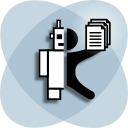
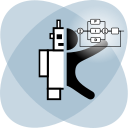
added the PID controllers as USTRUCT

Changed region(s): [[0.4688, 0.125, 0.9688, 0.8125], [0.25, 0.4062, 0.4688, 0.8125], [0.3438, 0.1562, 0.4375, 0.4062]]

diff --git a/Source/UPIDController/Public/PIDController.h b/Source/UPIDController/Public/PIDController.h
@@ -3,12 +3,182 @@
 
 #pragma once
 
+#include "EngineMinimal.h"
+#include "PIDController.generated.h"
+
 /**
-PID Controller
-Error: where you are vs where you want to be 
-Derivative: how fast you are approaching, dampening
-Integral: alignment error
- */
+* PID Controller
+* Error: where you are vs where you want to be
+* Derivative: how fast you are approaching, dampening
+* Integral: alignment error
+*/
+USTRUCT(BlueprintType)
+struct UPIDCONTROLLER_API FPIDController 
+{
+	GENERATED_USTRUCT_BODY()
+
+public:
+	// Proportional gain
+	UPROPERTY(EditAnywhere)
+	float P;
+
+	// Integral gain
+	UPROPERTY(EditAnywhere)
+	float I;
+
+	// Derivative gain
+	UPROPERTY(EditAnywhere)
+	float D;
+
+	// Max output (as absolute value)
+	UPROPERTY(EditAnywhere)
+	float MaxOutAbs;
+
+	// Default constructor (no initialization)
+	FPIDController() { }
+
+	// Constructor with initial value for each component
+	FPIDController(float InP, float InI, float InD, float InMaxOutAbs);
+
+	// Update the PID loop
+	float Update(const float InError, const float InDeltaTime);
+
+	// Update as a PID controller
+	float UpdateAsPID(const float InError, const float InDeltaTime);
+
+	// Update as a P controller
+	float UpdateAsP(const float InError);
+
+	// Update as a PD controller
+	float UpdateAsPD(const float InError, const float InDeltaTime);
+
+	// Update as a PI controller
+	float UpdateAsPI(const float InError, const float InDeltaTime);
+
+	// Reset error values of the PID
+	void Reset();
+	
+private:
+	// Previous step error value
+	float PrevErr;
+
+	// Integral error
+	float IErr;
+};
+
+/* FPIDController inline functions
+*****************************************************************************/
+FORCEINLINE FPIDController::FPIDController(float InP, float InI, float InD, float InMaxOutAbs)
+	: P(InP), I(InI), D(InD), MaxOutAbs(InMaxOutAbs)
+{ 
+	FPIDController::Reset();
+}
+
+FORCEINLINE float FPIDController::Update(const float InError, const float InDeltaTime)
+{
+	if (InDeltaTime == 0.0f || FMath::IsNaN(InError))
+	{
+		return 0.0f;
+	}
+
+	// Calculate proportional output
+	const float POut = P * InError;
+
+	// Calculate integral error / output
+	IErr += InDeltaTime * InError;
+	const float IOut = I * IErr;
+
+	// Calculate the derivative error / output
+	const float DErr = (InError - PrevErr) / InDeltaTime;
+	const float DOut = D * DErr;
+
+	// Set previous error
+	PrevErr = InError;
+
+	// Calculate the output
+	const float Out = POut + IOut + DOut;
+	
+	// Clamp output
+	return FMath::Clamp(Out, -MaxOutAbs, MaxOutAbs);
+}
+
+FORCEINLINE float FPIDController::UpdateAsPID(const float InError, const float InDeltaTime)
+{
+	return FPIDController::Update(InError, InDeltaTime);
+}
+
+FORCEINLINE float FPIDController::UpdateAsP(const float InError)
+{
+	if (FMath::IsNaN(InError))
+	{
+		return 0.0f;
+	}
+
+	// Calculate proportional output
+	const float Out = P * InError;
+
+	// Clamp output
+	return FMath::Clamp(Out, -MaxOutAbs, MaxOutAbs);
+}
+
+FORCEINLINE float FPIDController::UpdateAsPD(const float InError, const float InDeltaTime)
+{
+	if (InDeltaTime == 0.0f || FMath::IsNaN(InError))
+	{
+		return 0.0f;
+	}
+
+	// Calculate proportional output
+	const float POut = P * InError;
+
+	// Calculate the derivative error / output
+	const float DErr = (InError - PrevErr) / InDeltaTime;
+	const float DOut = D * DErr;
+
+	// Set previous error
+	PrevErr = InError;
+
+	// Calculate the output
+	const float Out = POut + DOut;
+
+	// Clamp output
+	return FMath::Clamp(Out, -MaxOutAbs, MaxOutAbs);
+}
+
+FORCEINLINE float FPIDController::UpdateAsPI(const float InError, const float InDeltaTime)
+{
+	if (InDeltaTime == 0.0f || FMath::IsNaN(InError))
+	{
+		return 0.0f;
+	}
+
+	// Calculate proportional output
+	const float POut = P * InError;
+
+	// Calculate integral error / output
+	IErr += InDeltaTime * InError;
+	const float IOut = I * IErr;
+
+	// Calculate the output
+	const float Out = POut + IOut;
+
+	// Clamp output
+	return FMath::Clamp(Out, -MaxOutAbs, MaxOutAbs);
+}
+
+FORCEINLINE void FPIDController::Reset()
+{
+	PrevErr = 0.f;
+	IErr = 0.f;
+}
+
+/* DEPRECATED, moved as USTRUCT */
+/**
+* PID Controller
+* Error: where you are vs where you want to be
+* Derivative: how fast you are approaching, dampening
+* Integral: alignment error
+*/
 class UPIDCONTROLLER_API PIDController
 {
 public:

diff --git a/Source/UPIDController/Public/PIDController3D.h b/Source/UPIDController/Public/PIDController3D.h
@@ -3,6 +3,178 @@
 
 #pragma once
 
+#include "EngineMinimal.h"
+#include "PIDController3D.generated.h"
+
+
+/**
+* PID Controller for FVector
+* Error: where you are vs where you want to be
+* Derivative: how fast you are approaching, dampening
+* Integral: alignment error
+*/
+USTRUCT(BlueprintType)
+struct UPIDCONTROLLER_API FPIDController3D
+{
+	GENERATED_USTRUCT_BODY()
+
+public:
+	// Proportional gain
+	UPROPERTY(EditAnywhere)
+	float P;
+
+	// Integral gain
+	UPROPERTY(EditAnywhere)
+	float I;
+
+	// Derivative gain
+	UPROPERTY(EditAnywhere)
+	float D;
+
+	// Max output (as absolute value)
+	UPROPERTY(EditAnywhere)
+	float MaxOutAbs;
+
+	// Default constructor (no initialization)
+	FPIDController3D() { }
+
+	// Constructor with initial value for each component
+	FPIDController3D(float InP, float InI, float InD, float InMaxOutAbs);
+
+	// Update the PID loop
+	FVector Update(const FVector InError, const float InDeltaTime);
+
+	// Update as a PID controller
+	FVector UpdateAsPID(const FVector InError, const float InDeltaTime);
+
+	// Update as a P controller
+	FVector UpdateAsP(const FVector InError);
+
+	// Update as a PD controller
+	FVector UpdateAsPD(const FVector InError, const float InDeltaTime);
+
+	// Update as a PI controller
+	FVector UpdateAsPI(const FVector InError, const float InDeltaTime);
+
+	// Reset error values of the PID
+	void Reset();
+
+private:
+	// Previous step error value
+	FVector PrevErr;
+
+	// Integral error
+	FVector IErr;
+};
+
+/* FPIDController inline functions
+*****************************************************************************/
+FORCEINLINE FPIDController3D::FPIDController3D(float InP, float InI, float InD, float InMaxOutAbs)
+	: P(InP), I(InI), D(InD), MaxOutAbs(InMaxOutAbs)
+{
+	FPIDController3D::Reset();
+}
+
+FORCEINLINE FVector FPIDController3D::Update(const FVector InError, const float InDeltaTime)
+{
+	if (InDeltaTime == 0.0f || InError.ContainsNaN())
+	{
+		return FVector(0.0f);
+	}
+
+	// Calculate proportional output
+	const FVector POut = P * InError;
+
+	// Calculate integral error / output
+	IErr += InDeltaTime * InError;
+	const FVector IOut = I * IErr;
+
+	// Calculate the derivative error / output
+	const FVector DErr = (InError - PrevErr) / InDeltaTime;
+	const FVector DOut = D * DErr;
+
+	// Set previous error
+	PrevErr = InError;
+
+	// Calculate the output
+	const FVector Out = POut + IOut + DOut;
+
+	// Clamp the vector values
+	return Out.BoundToCube(MaxOutAbs);
+}
+
+FORCEINLINE FVector FPIDController3D::UpdateAsPID(const FVector InError, const float InDeltaTime)
+{
+	return FPIDController3D::Update(InError, InDeltaTime);
+}
+
+FORCEINLINE FVector FPIDController3D::UpdateAsP(const FVector InError)
+{
+	if (InError.ContainsNaN())
+	{
+		return FVector(0.0f);
+	}
+
+	// Calculate proportional output
+	const FVector Out = P * InError;
+
+	// Clamp output
+	return Out.BoundToCube(MaxOutAbs);
+}
+
+FORCEINLINE FVector FPIDController3D::UpdateAsPD(const FVector InError, const float InDeltaTime)
+{
+	if (InDeltaTime == 0.0f || InError.ContainsNaN())
+	{
+		return FVector(0.0f);
+	}
+
+	// Calculate proportional output
+	const FVector POut = P * InError;
+
+	// Calculate the derivative error / output
+	const FVector DErr = (InError - PrevErr) / InDeltaTime;
+	const FVector DOut = D * DErr;
+
+	// Set previous error
+	PrevErr = InError;
+
+	// Calculate the output
+	const FVector Out = POut + DOut;
+
+	// Clamp output
+	return Out.BoundToCube(MaxOutAbs);
+}
+
+FORCEINLINE FVector FPIDController3D::UpdateAsPI(const FVector InError, const float InDeltaTime)
+{
+	if (InDeltaTime == 0.0f || InError.ContainsNaN())
+	{
+		return FVector(0.0f);
+	}
+
+	// Calculate proportional output
+	const FVector POut = P * InError;
+
+	// Calculate integral error / output
+	IErr += InDeltaTime * InError;
+	const FVector IOut = I * IErr;
+
+	// Calculate the output
+	const FVector Out = POut + IOut;
+
+	// Clamp output
+	return Out.BoundToCube(MaxOutAbs);
+}
+
+FORCEINLINE void FPIDController3D::Reset()
+{
+	PrevErr = FVector(0.f);
+	IErr = FVector(0.f);
+}
+
+
+/* DEPRECATED, moved as USTRUCT */
 /**
 PID Controller for FVector
 Error: where you are vs where you want to be

diff --git a/Source/UPIDController/Private/PIDController.cpp b/Source/UPIDController/Private/PIDController.cpp
@@ -6,7 +6,6 @@
 // Default constructor
 PIDController::PIDController()
 {
-
 }
 
 // Constructor
